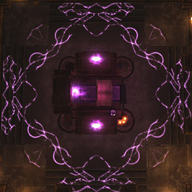
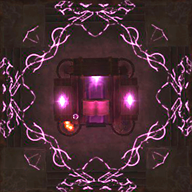
update tiles

diff --git a/js/tiles.js b/js/tiles.js
@@ -9,12 +9,22 @@ var tiles = {
 		sizey: 1,
 		color: "pink"
 	},
+	'claimed_floor_p1': {
+		sizex: 1,
+		sizey: 1,
+		color: "pink"
+	},
 	'core_p2': {
 		sizex: 5,
 		sizey: 5,
 		color: "darkblue"
 	},
 	'claimed_earth_p2': {
+		sizex: 1,
+		sizey: 1,
+		color: "royalblue"
+	},
+	'claimed_floor_p2': {
 		sizex: 1,
 		sizey: 1,
 		color: "royalblue"
@@ -29,6 +39,11 @@ var tiles = {
 		sizey: 1,
 		color: "olive"
 	},
+	'claimed_floor_p3': {
+		sizex: 1,
+		sizey: 1,
+		color: "olive"
+	},
 	'core_p4': {
 		sizex: 5,
 		sizey: 5,
@@ -38,6 +53,26 @@ var tiles = {
 		sizex: 1,
 		sizey: 1,
 		color: "orange"
+	},
+	'claimed_floor_p4': {
+		sizex: 1,
+		sizey: 1,
+		color: "orange"
+	},
+	'herogate': {
+		sizex: 3,
+		sizey: 3,
+		color: "#efefef"
+	},
+	'claimed_earth_empire': {
+		sizex: 1,
+		sizey: 1,
+		color: "#eee"
+	},
+	'claimed_floor_empire': {
+		sizex: 1,
+		sizey: 1,
+		color: "#ddd"
 	},
 	'earth': {
 		sizex: 1,
@@ -49,10 +84,10 @@ var tiles = {
 		sizey: 1,
 		color: "dimgrey"
 	},
-	'water': {
+	'gold': {
 		sizex: 1,
 		sizey: 1,
-		color: "blue"
+		color: "goldenrod"
 	},
 	'permafrost': {
 		sizex: 1,
@@ -64,10 +99,10 @@ var tiles = {
 		sizey: 1,
 		color: "yellow"
 	},
-	'lava': {
+	'brimstone': {
 		sizex: 1,
 		sizey: 1,
-		color: "darkred"
+		color: "firebrick"
 	},
 	'dirt': {
 		sizex: 1,
@@ -79,20 +114,15 @@ var tiles = {
 		sizey: 1,
 		color: "#c0c0c0"
 	},
-	'gold': {
+	'water': {
 		sizex: 1,
 		sizey: 1,
-		color: "goldenrod"
+		color: "blue"
 	},
-	'brimstone': {
+	'lava': {
 		sizex: 1,
 		sizey: 1,
-		color: "firebrick"
-	},
-	'chasm': {
-		sizex: 1,
-		sizey: 1,
-		color: "black"
+		color: "darkred"
 	},
 	'wood_bridge': {
 		sizex: 1,
@@ -129,16 +159,14 @@ var tiles = {
 		sizey: 3,
 		color: "darkslateblue"
 	},
-	/*
-	Still missing:
-	- Shrine(s): 
-		- Perception
-	- Claimed player floor
-	- Chasm
-	- Hero Gate
-	- Bridge(s)
-		- Stone
-		- Wood
-	- Sand
-	*/
+	'perceptionshrine': {
+		sizex: 3,
+		sizey: 3,
+		color: "white"
+	},
+	'chasm': {
+		sizex: 1,
+		sizey: 1,
+		color: "black"
+	}
 }

diff --git a/js/editor.js b/js/editor.js
@@ -28,7 +28,7 @@ function Map(sizex, sizey) {
 	this.dragEnabled = false;
 	this.assetDir = './tiles/';
 	this.preloadImages = true;
-	this.buttonColumns = 2;
+	this.buttonColumns = 3;
 	this.tileModeDefault = 'normal';
 	this.tileMode = store.getItem("tileMode") || this.tileModeDefault;
 	this.tileModes = [ /* 'lowres' not implemented ,*/ 'color', 'normal'/*, 'highres' not implemented */ ];
